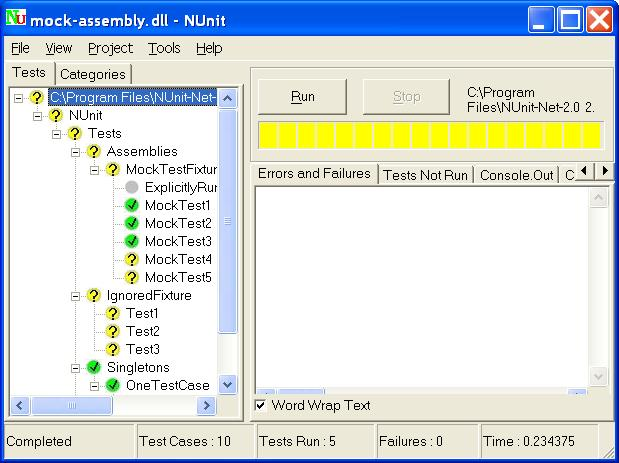
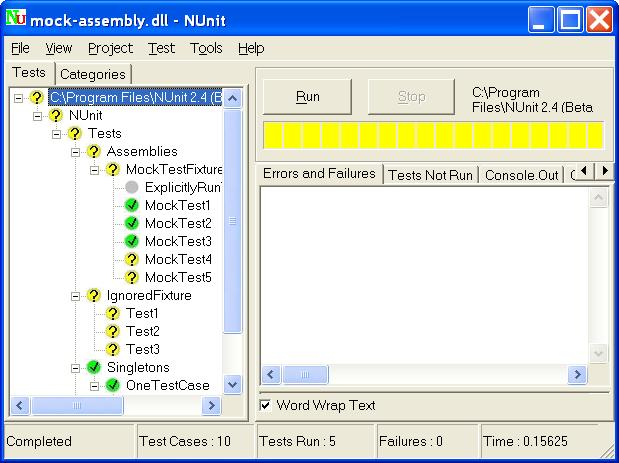
Update docs for 2.4 Beta Release

diff --git a/doc/releasenotes.html b/doc/releasenotes.html
@@ -32,7 +32,43 @@ dt { font-weight: bold }
 
 <h2>Release Notes</h2>
 
-<h3>NUnit 2.4 Alpha Release (2.3.6140) - May 20, 2006</h3>
+<h3>NUnit 2.4 Beta 1 Release (2.3.6162) - June 11, 2006</h3>
+
+<h4>General</h4>
+<ul>
+<li>Additional NUnit tests now pass under Linux. Those that do not have
+    been excluded using the Platform attribute.
+
+</ul>
+<h4>Framework</h4>
+<ul>
+<li>Added a Reason property to ExplicitAttribute, for use in explaining why a test is marked Explicit.
+
+<li>Multiple SetUp or TearDown methods now give a more meaningful error message.
+</ul>
+
+<h4>Console</h4>
+<ul>
+<li>The console now outputs test failures to Trace all the time, not just
+    when running under the debugger. You will see clickable trace output in 
+	Visual Studio even if you use the Start Without Debugging menu item.
+</ul>
+
+<h4>Gui</h4>
+<ul>
+<li>Added Test Menu with entries for running the selected test, all tests or failed tests.
+
+<li>Instead of displaying a dialog box, unhandled exceptions now display in the 
+	Errors &amp; Failures tab, with an indication of the test that was running 
+	when the exception was thrown. The test itself is not shown as a failure,
+	(unless it failed for some other reason, since it may not have caused the
+	exception. The progress bar turns red if any unhandled exceptions are thrown.
+	
+<li>The GUI no longer crashes when reloading assemblies with added or deleted
+    tests.
+</ul>
+
+<h3>NUnit 2.4 Alpha Release (2.3.6142) - May 22, 2006</h3>
 
 <h4>General</h4>
 <ul>
@@ -284,7 +320,7 @@ Cumulative notes through NUnit 2.2 are available <a href="docs/2.2.8/releaseNote
 <!-- Submenu -->
 <div id="subnav">
 <ul>
-<li><a href="index.html">NUnit 2.4 Alpha Release</a></li>
+<li><a href="index.html">NUnit 2.4 Beta 1 Release</a></li>
 <ul>
 <li><a href="getStarted.html">Getting&nbsp;Started</a></li>
 <li><a href="installation.html">Installation</a></li>

diff --git a/doc/testFixture.html b/doc/testFixture.html
@@ -54,15 +54,22 @@
 	setup or teardown methods.</p>
 <p>There are a few restrictions on a class that is used as a test fixture.
 	<ul>
-		<li>
-			It must be a publicly exported type or NUnit will not see it.</li>
-		<li>
-			It must have a default constructor or NUnit will not be able to construct it.</li>
-		<li>
-			The constructor should not have any side effects, since NUnit may construct the 
-			class multiple times in the course of a session.</li>
+		<li>It must be a publicly exported type.</li>
+		<li>It must have not be abstract.</li>
+		<li>It must have a default constructor</li>
+		<li>It must have no more than one of each of the following method
+		    types: SetUp, TearDown, TestFixtureSetUp and TestFixtureTearDown.</li>
 	</ul>
 </p>
+
+<p>If any of these restrictions are violated, the class will be shown as a
+   non-runnable test fixture, and will turn yellow in the Gui if you attempt to run it.</p>
+
+<p>In addition, it is advisable that the constructor not have any side effects, 
+   since NUnit may construct the object multiple times in the course of a session.</li>
+
+
+<p>If you mark a class as a test fixture
 
 <h4>Example:</h4>
 
@@ -142,7 +149,7 @@ public class SuccessTests
 <!-- Submenu -->
 <div id="subnav">
 <ul>
-<li><a href="index.html">NUnit 2.4 Alpha Release</a></li>
+<li><a href="index.html">NUnit 2.4 Beta 1 Release</a></li>
 <ul>
 <li><a href="getStarted.html">Getting&nbsp;Started</a></li>
 <li><a href="installation.html">Installation</a></li>

diff --git a/doc/index.html b/doc/index.html
@@ -24,10 +24,10 @@
 
 <div id="content">
 
-<h2>NUnit 2.4 Alpha Release</h2>
+<h2>NUnit 2.4 Beta 1 Release</h2>
 	
-<p>This documentation covers the Alpha release of NUnit 2.4, with version number
-    2.3.6141. Where applicable, we have marked sections with the version in which 
+<p>This documentation covers the Beta 1 release of NUnit 2.4, with version number
+    2.3.6162. Where applicable, we have marked sections with the version in which 
 	a feature first appeared.</p>
 
 <p>If you are new to NUnit, we suggest you begin by reading the 
@@ -35,16 +35,15 @@
 	 Those who have used earlier releases may want to begin with the 
 	<a href="upgrade.html">Upgrading</a> section.</p>
 
-<p>This is an Alpha release, intended for use by project contributors and
-   those who need a preview of the new NUnit 2.4 features. See the 
-   <a href="releaseNotes.html">Release Notes</a>   for more information.</p>
+<p>See the 
+   <a href="releaseNotes.html">Release Notes</a>   for more information on this release.</p>
 
 </div>
 
 <!-- Submenu -->
 <div id="subnav">
 <ul>
-<li id="current"><a href="index.html">NUnit 2.4 Alpha Release</a></li>
+<li id="current"><a href="index.html">NUnit 2.4 Beta 1 Release</a></li>
 <ul>
 <li><a href="getStarted.html">Getting&nbsp;Started</a></li>
 <li><a href="installation.html">Installation</a></li>

diff --git a/doc/explicit.html b/doc/explicit.html
@@ -60,13 +60,16 @@
 	selected in the gui, if its name is specified on the console runner command 
 	line as the fixture to run or if it is included by use of a Category filter.</p>
 
+<p>An optional string argument may be used to give the reason for marking
+   the test Explicit.</p>
+
 <p>If a test or fixture with the Explicit attribute is encountered in the course of 
 	running tests, it is skipped unless it has been specifically selected by one
 	of the above means. The test does not affect the outcome of the run at all:
 	it is not considered as ignored and is not even counted in the total number
 	of tests. In the gui, the tree node for the test remains gray and the
 	status bar color is not affected.</p>
-
+	
 <blockquote><i><b>Note:</b> In versions of NUnit prior to 2.4, these tests were
     shown as ignored.</i></blockquote>
 
@@ -231,7 +234,7 @@ public class SuccessTests
 <!-- Submenu -->
 <div id="subnav">
 <ul>
-<li><a href="index.html">NUnit 2.4 Alpha Release</a></li>
+<li><a href="index.html">NUnit 2.4 Beta 1 Release</a></li>
 <ul>
 <li><a href="getStarted.html">Getting&nbsp;Started</a></li>
 <li><a href="installation.html">Installation</a></li>

diff --git a/doc/nunit.css b/doc/nunit.css
@@ -43,7 +43,7 @@ ul.across li { float: left; display: block; width: 9em }
 
 /* Main Content */
 #content { margin: 3em 25% 0 0; padding: 0 5% 1em 5%; }
-#content.wide { margin: 3em 0 0 0; padding: 0 5% 1em 5%; }
+#content.wide { margin: 3em 5% 0 5%; padding: 0 5% 1em 5%; }
 #content p { padding: 0; margin: 0 0 1em 0; 660px; }
 #content blockquote { max-width: 580px }
 #content div.screenshot { text-align: center; margin: 1em 0; }
@@ -52,7 +52,8 @@ ul.across li { float: left; display: block; width: 9em }
               
 /* Page Footer */
 #footer { text-align: center; font-size: .8em; color: #444; clear: both;
-          border-top: 2px solid #999; margin: 0 30% 10px 5%; padding: 5px 0 0 0; }          
+          border-top: 2px solid #999; margin: 0 30% 10px 5%; padding: 5px 0 0 0;
+          page-break-after: always }          
 #sig { text-align: right; font-size: .8em; width: 95%; display: none }
           
 

diff --git a/doc/installation.html b/doc/installation.html
@@ -140,7 +140,7 @@ loading and running NUnitTests.nunit in the bin directory. All tests should pass
 <!-- Submenu -->
 <div id="subnav">
 <ul>
-<li><a href="index.html">NUnit 2.4 Alpha Release</a></li>
+<li><a href="index.html">NUnit 2.4 Beta 1 Release</a></li>
 <ul>
 <li><a href="getStarted.html">Getting&nbsp;Started</a></li>
 <li id="current"><a href="installation.html">Installation</a></li>

diff --git a/doc/equalityAsserts.html b/doc/equalityAsserts.html
@@ -141,7 +141,7 @@ as equal. Special values are handled so that the following Asserts succeed:</p>
 <!-- Submenu -->
 <div id="subnav">
 <ul>
-<li><a href="index.html">NUnit 2.4 Alpha Release</a></li>
+<li><a href="index.html">NUnit 2.4 Beta 1 Release</a></li>
 <ul>
 <li><a href="getStarted.html">Getting&nbsp;Started</a></li>
 <li><a href="installation.html">Installation</a></li>

diff --git a/doc/features.html b/doc/features.html
@@ -47,7 +47,7 @@ creating and running tests as <a href="multiAssembly.html">NUnit Test Projects</
 <!-- Submenu -->
 <div id="subnav">
 <ul>
-<li><a href="index.html">NUnit 2.4 Alpha Release</a></li>
+<li><a href="index.html">NUnit 2.4 Beta 1 Release</a></li>
 <ul>
 <li><a href="getStarted.html">Getting&nbsp;Started</a></li>
 <li><a href="installation.html">Installation</a></li>

diff --git a/doc/multiAssembly.html b/doc/multiAssembly.html
@@ -97,7 +97,7 @@ and the user may need to place the directory containing the unmanaged dll on the
 <!-- Submenu -->
 <div id="subnav">
 <ul>
-<li><a href="index.html">NUnit 2.4 Alpha Release</a></li>
+<li><a href="index.html">NUnit 2.4 Beta 1 Release</a></li>
 <ul>
 <li><a href="getStarted.html">Getting&nbsp;Started</a></li>
 <li><a href="installation.html">Installation</a></li>

diff --git a/doc/optionsDialog.html b/doc/optionsDialog.html
@@ -111,7 +111,7 @@ and solutions and add Visual Studio projects to existing test projects.</p>
 <!-- Submenu -->
 <div id="subnav">
 <ul>
-<li><a href="index.html">NUnit 2.4 Alpha Release</a></li>
+<li><a href="index.html">NUnit 2.4 Beta 1 Release</a></li>
 <ul>
 <li><a href="getStarted.html">Getting&nbsp;Started</a></li>
 <li><a href="installation.html">Installation</a></li>

diff --git a/doc/comparisonAsserts.html b/doc/comparisonAsserts.html
@@ -189,7 +189,7 @@ Assert.LessOrEqual( IComparable arg1, IComparable arg2, string message,
 <!-- Submenu -->
 <div id="subnav">
 <ul>
-<li><a href="index.html">NUnit 2.4 Alpha Release</a></li>
+<li><a href="index.html">NUnit 2.4 Beta 1 Release</a></li>
 <ul>
 <li><a href="getStarted.html">Getting&nbsp;Started</a></li>
 <li><a href="installation.html">Installation</a></li>
